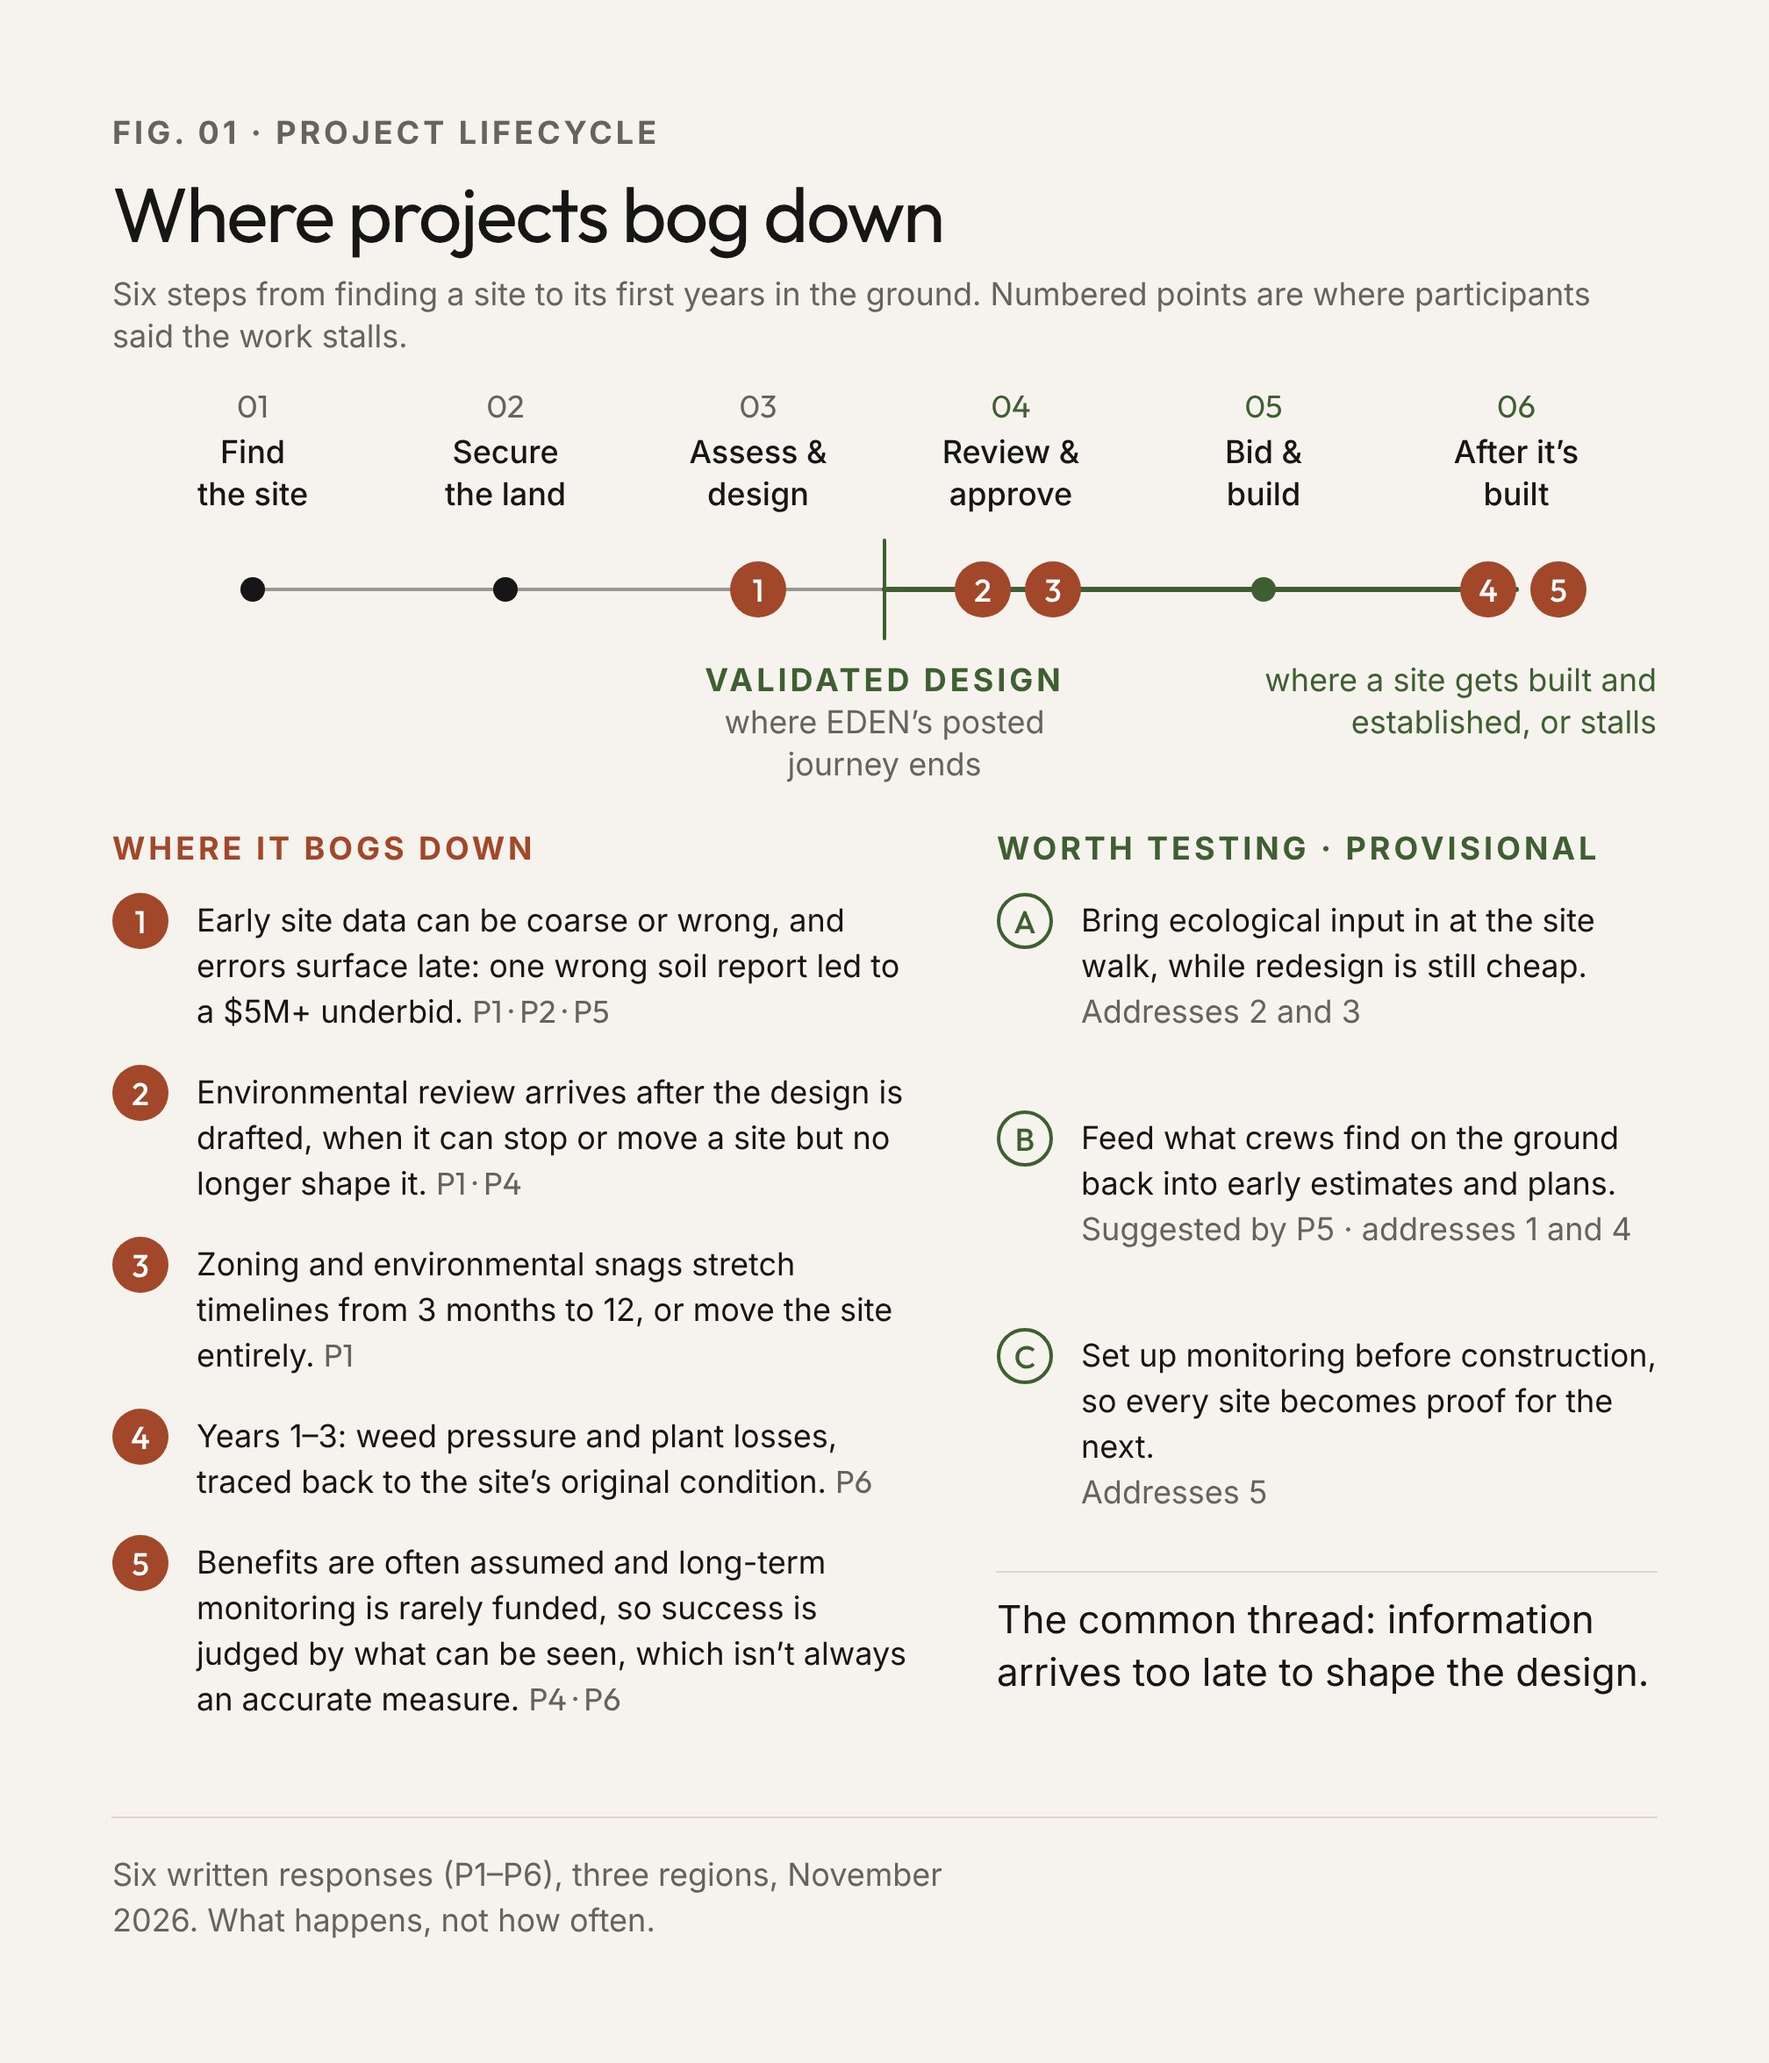
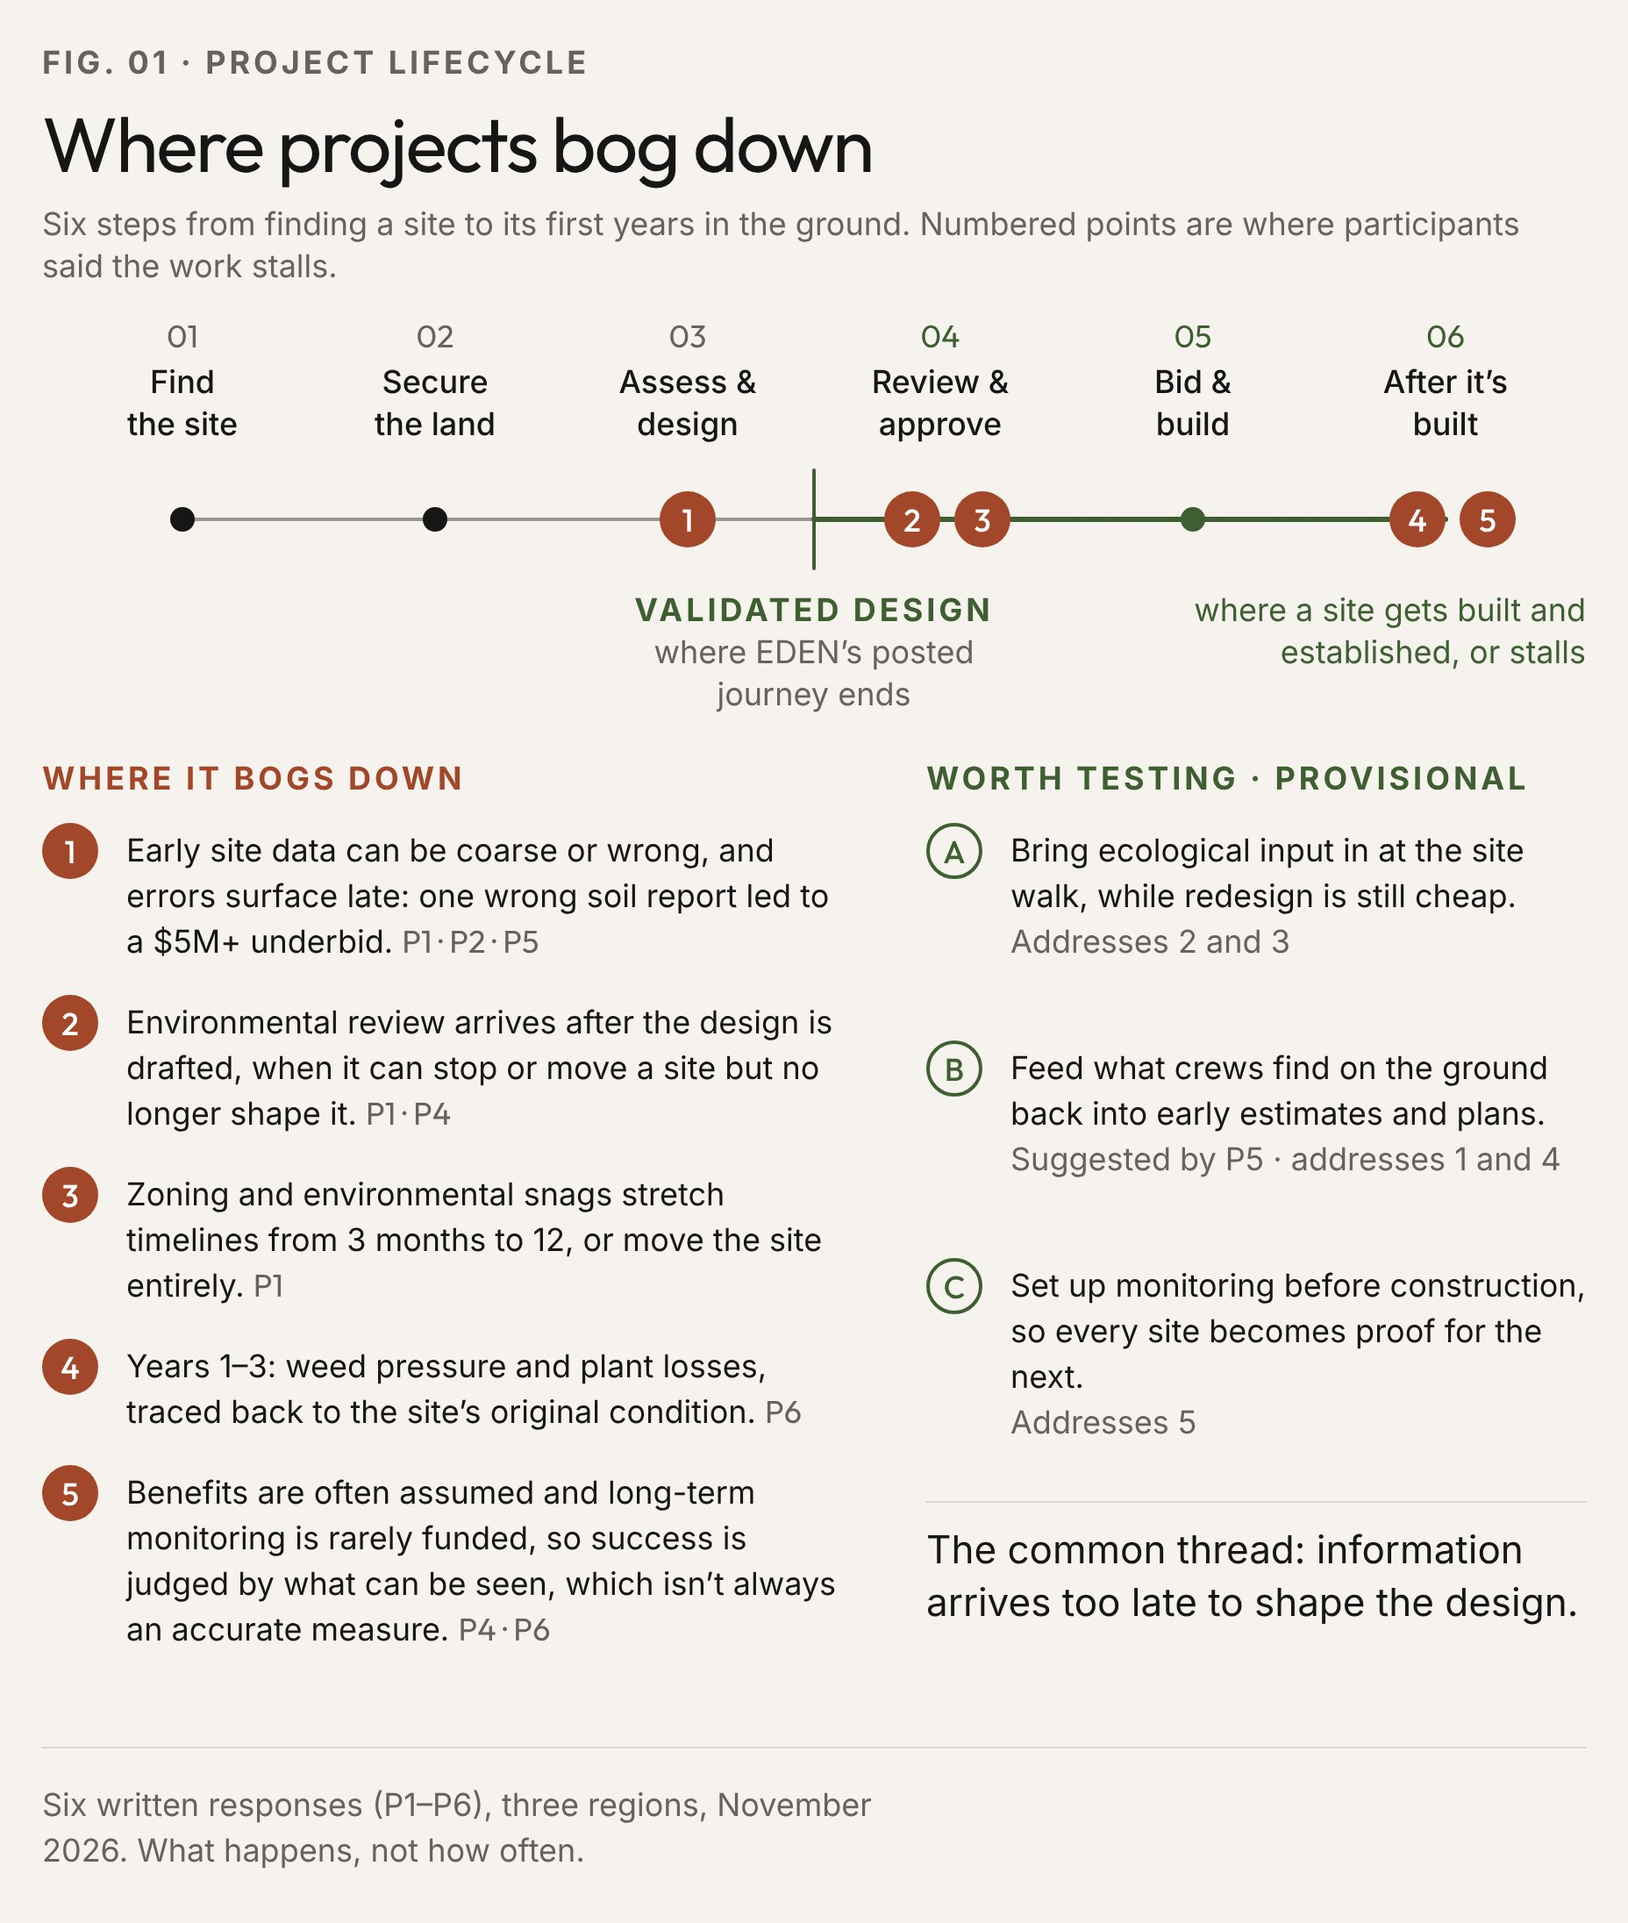
Field Brief 01: Fig. 02 tensions and allies, wider figures, hypothesis table restyle, memo links
Claude-Session: https://claude.ai/code/session_012LDqrn37sPts8SfrboBdz9

diff --git a/research/field-briefs/eden/index.html b/research/field-briefs/eden/index.html
@@ -25,6 +25,18 @@
 .eco-table td.risk::before{color:var(--brick)!important}
 .eco-table tr.eden td{padding:4px 16px 16px}
 }
+.hyp-table{font-size:17px;line-height:1.55}.hyp-table th[scope=row]{width:30%;font-family:Outfit,sans-serif;font-size:17px;font-weight:500;text-transform:none;letter-spacing:0;color:var(--ink)}
+.hyp-table .meta{display:flex;gap:8px;align-items:center;margin-top:8px}
+.tag{display:inline-block;font-size:11px;line-height:1;letter-spacing:.1em;text-transform:uppercase;font-weight:700;padding:5px 7px;border-radius:4px}
+.tag.reported{background:#e9ede4;color:#3F5F33}.tag.inferred{background:#efebe5;color:var(--muted)}.tag.provisional{border:1px dashed #9a958e;color:var(--muted);padding:4px 6px}
+.hyp-table tbody tr:last-child th{border-bottom:0}.hyp-table .src{font-size:12px;letter-spacing:.06em;color:var(--muted);font-weight:500}
+.hyp-table tr.falsify th,.hyp-table tr.falsify td{background:rgba(163,71,42,.055)}.hyp-table tr.falsify th{color:#A3472A;box-shadow:inset 3px 0 0 #A3472A}
+.figure-wide{width:min(1060px,calc(100vw - 56px));margin:48px 0 48px 50%;transform:translateX(-50%)}
+.figure-wide img{border-radius:var(--radius)}.figure-wide figcaption{max-width:760px;margin:14px auto 0}
+@media(max-width:720px){.hyp-table{min-width:0}.hyp-table,.hyp-table tbody,.hyp-table tr,.hyp-table th,.hyp-table td{display:block;width:auto!important}
+.hyp-table th[scope=row]{padding:16px 16px 2px;border:0}.hyp-table td{padding:2px 16px 16px}
+.table-wrap:has(.hyp-table){margin-right:0;border-right:1px solid var(--line);border-radius:var(--radius-sm)}
+.figure-wide{width:100vw}.figure-wide img{border-radius:0}.figure-wide figcaption{padding:0 20px}}
 </style></head><body><a class="skip-link" href="#main-content">Skip to main content</a><header><nav class="nav" aria-label="Main navigation"><a class="brand-lockup" href="../../../index.html" aria-label="Abby Buchanan home"><img class="logo-image" src="../../../assets/images/logo-dark.png" alt=""><span class="brand-name">Abby Buchanan</span></a><div class="nav-links"><a href="../../../work/scaffold.html">Work</a><a href="../../index.html" aria-current="page">Research</a><a href="../../../about.html">About</a><a href="../../../resume.html">Resume</a></div></nav></header><main id="main-content"><article class="article"><header><a class="back-link" href="../../index.html">← Research</a><p class="dek" style="font-size:0.9rem;font-style:italic;margin:0 0 1rem">Shared privately with the EDEN team; not listed on this site.</p><div class="eyebrow">Field Brief 01</div><h1>The Human Ecosystem of Implementation</h1><p class="dek">Who carries an ecological design from site data to year three</p><div class="article-meta"><span>Abby Buchanan</span><span>November 2026</span><span>Working brief · Provisional · 6 responses</span></div></header><div class="article-body">
 
 <div class="callout"><div class="mini-label">The short answer</div><p>EDEN’s first user is likely the person who carries a design from the owner’s goals to everyone who must approve, price, build, and care for it: often a project or site development manager. EDEN’s posting maps the journey to a validated design. The people I spoke with described a second journey after that, often slower and less predictable, through review, bidding, building, and the first years in the ground, where a design gets built or quietly stalls. Most of the problems shared a pattern: information arrived too late to shape the design.</p><p><strong>The implementation is the design objective.</strong> A validated design is a milestone; the goal is a site that gets built, gets established, thrives, and invites future investment. <strong>EDEN designs for every species on a site; the same thinking can design for the human ecosystem that builds it.</strong></p></div>
@@ -32,17 +44,17 @@
 <h2>How this was made</h2>
 <p>Six written responses, November 17 to 19, 2026 (five full responses and one shorter reaction), from a civil and structural engineer, a telecom site development director, a land use planning manager, a senior policy analyst at the Oregon Department of Energy (answering as a former state environmental regulator), a former engineering manager at a government contractor, and the founder of a habitat restoration firm, across the Pacific Northwest, Midwest, and Southeast. Most answered three to five questions tailored to their role, by email or message. Two plan and build telecom sites, two work in ecological fields, and none has used EDEN. This is an outside view. Participants are identified by role and code (P1 to P6); all views below are paraphrased.</p>
 
-<h2>The journey: where projects bog down</h2>
-<figure><img src="../../../assets/images/field-briefs/eden-fig01.jpg" alt="Fig. 01. A six-step project lifecycle: find the site, secure the land, assess and design, review and approve, bid and build, after it’s built. A marker shows where EDEN’s posted journey ends, at the validated design. Five numbered points where work stalls: 1, early site data can be coarse or wrong (P1, P2, P5); 2, environmental review arrives after the design is drafted (P1, P4); 3, zoning and environmental snags stretch timelines from 3 to 12 months or move the site (P1); 4, weed pressure and plant losses in years 1 to 3, traced back to the site’s original condition (P6); 5, benefits often assumed and monitoring rarely funded, so success is judged by what can be seen (P4, P6). Three ideas worth testing: A, ecological input at the site walk; B, feeding field findings back into early estimates; C, monitoring set up before construction." width="1008" height="1176"><figcaption>Fig. 01. Four of the five points where the work stalls come after the point where EDEN’s posted journey ends.</figcaption></figure>
+<h2>The journey</h2>
+<figure class="figure-wide"><a href="../../../assets/images/field-briefs/eden-fig01.jpg"><img src="../../../assets/images/field-briefs/eden-fig01.jpg" alt="Fig. 01. A six-step project lifecycle: find the site, secure the land, assess and design, review and approve, bid and build, after it’s built. A marker shows where EDEN’s posted journey ends, at the validated design. Five numbered points where work stalls: 1, early site data can be coarse or wrong (P1, P2, P5); 2, environmental review arrives after the design is drafted (P1, P4); 3, zoning and environmental snags stretch timelines from 3 to 12 months or move the site (P1); 4, weed pressure and plant losses in years 1 to 3, traced back to the site’s original condition (P6); 5, benefits often assumed and monitoring rarely funded, so success is judged by what can be seen (P4, P6). Three ideas worth testing: A, ecological input at the site walk; B, feeding field findings back into early estimates; C, monitoring set up before construction." width="928" height="1096"></a><figcaption>Fig. 01. Four of the five points where the work stalls come after the point where EDEN’s posted journey ends.</figcaption></figure>
 
 <h2>First-user hypothesis</h2>
-<div class="table-wrap"><table><thead><tr><th scope="col"> </th><th scope="col">Hypothesis</th></tr></thead><tbody>
-<tr><td><strong>Who</strong></td><td>A project or site development manager working for an owner or developer on raw land. <em>Inferred · P1 P2</em></td></tr>
-<tr><td><strong>The moment they open EDEN</strong></td><td>Land is secured and the site needs a plan before engineering, zoning, and environmental review begin. <em>Provisional</em></td></tr>
-<tr><td><strong>The job they’re doing</strong></td><td>Get to a plan that is buildable, approvable, and on budget, with no surprises late in the project. <em>Inferred · P1 P2 P5</em></td></tr>
-<tr><td><strong>What they hand on, and to whom</strong></td><td>A plan the engineer will stamp, reviewers will approve, contractors can price, and the financier will fund. <em>Reported · P1 P2</em></td></tr>
-<tr><td><strong>Evidence</strong></td><td>The project manager makes the call and escalates when needed; the financier has final say; sites that hit too many snags are moved or cancelled. <em>Reported · P1 P2</em></td></tr>
-<tr><td><strong>What would prove me wrong</strong></td><td>If EDEN’s clients hand the brief straight to their landscape architect or engineer and never open the tool themselves.</td></tr>
+<div class="table-wrap"><table class="hyp-table"><tbody>
+<tr><th scope="row">Who</th><td>A project or site development manager working for an owner or developer on raw land.<span class="meta"><span class="tag inferred">Inferred</span><span class="src">P1 · P2</span></span></td></tr>
+<tr><th scope="row">The moment they open EDEN</th><td>Land is secured and the site needs a plan before engineering, zoning, and environmental review begin.<span class="meta"><span class="tag provisional">Provisional</span></span></td></tr>
+<tr><th scope="row">The job they’re doing</th><td>Get to a plan that is buildable, approvable, and on budget, with no surprises late in the project.<span class="meta"><span class="tag inferred">Inferred</span><span class="src">P1 · P2 · P5</span></span></td></tr>
+<tr><th scope="row">What they hand on, and to whom</th><td>A plan the engineer will stamp, reviewers will approve, contractors can price, and the financier will fund.<span class="meta"><span class="tag reported">Reported</span><span class="src">P1 · P2</span></span></td></tr>
+<tr><th scope="row">Evidence</th><td>The project manager makes the call and escalates when needed; the financier has final say; sites that hit too many snags are moved or cancelled.<span class="meta"><span class="tag reported">Reported</span><span class="src">P1 · P2</span></span></td></tr>
+<tr class="falsify"><th scope="row">What would prove me wrong</th><td>If EDEN’s clients hand the brief straight to their landscape architect or engineer and never open the tool themselves.</td></tr>
 </tbody></table></div>
 
 <h2>Three trust moments</h2>
@@ -62,6 +74,8 @@
 <tr class="eden"><th scope="row">The site’s ecosystem and species</th><td class="eden-note" colspan="3">Covered by EDEN’s ecological program, from the start</td></tr>
 </tbody></table></div>
 
+<figure class="figure-wide"><a href="../../../assets/images/field-briefs/eden-fig02.jpg"><img src="../../../assets/images/field-briefs/eden-fig02.jpg" alt="Fig. 02. Tensions and allies among the roles a design passes through. Tensions: a wrong soil report leads to a $5M+ underbid (P5); environmental review arrives after the design is drafted (P1, P4); zoning snags stretch 3 months to 12 (P1); monitoring is rarely funded (P4, P6); invasive weeds cause plant losses for the restoration crew (P6). Alliances: specialists give the engineer field data (P1, P2); reviewers protect ecological function (P4); the restoration crew plants and tends the site (P6); contractors build trust through explanation (P2). Worth testing: measured results as proof for the next investor." width="928" height="1020" loading="lazy"></a><figcaption>Fig. 02. Most tensions land on the owner, who absorbs every delay and holds the final say.</figcaption></figure>
+
 <h2>Three assumptions to test in the first 90 days</h2>
 <ol>
 <li>Ecological input at the site walk, rather than after the design is drafted, means fewer sites are moved or cancelled. <em>Provisional.</em></li>
@@ -75,5 +89,6 @@
 <h2>Evidence status</h2>
 <p>Six responses show what happens, not how often. Two participants work in ecological fields, none has used EDEN, and EDEN’s internal steps are my inference from public material: OXMAN’s <a href="https://www.oxman.com/projects/eden" target="_blank" rel="noreferrer">EDEN project page</a> and its UX / UI Design (EDEN) posting, both read in November 2026. You may already be working on parts of this; if so, I’d love to learn how.</p>
 <p>This brief applies the argument of <a href="../../memos/invisible-tax.html">The Invisible Tax</a>: the effort people spend translating what they want into the language a system can process.</p>
+<p>Fig. 02 borrows its frame from two working memos: <a href="../../memos/two-kinds-of-growth.html">Two Kinds of Growth</a>, on systems that grow by feeding each other rather than feeding on each other, and <a href="../../memos/protection-and-repair.html">Protection and Repair</a>, on why harm so often comes from misplacement, not malice.</p>
 
 <div class="memo-nav"><a href="../../index.html">← All research</a><a href="mailto:buchanan.abby@gmail.com">Get in touch →</a></div></div></article></main><footer class="footer"><p>© Abby Buchanan</p><div class="footer-links"><a href="../../index.html">Research</a><a href="https://www.linkedin.com/in/abbybuchanan/" target="_blank" rel="noreferrer">LinkedIn</a><a href="mailto:buchanan.abby@gmail.com">buchanan.abby@gmail.com</a></div></footer></body></html>
